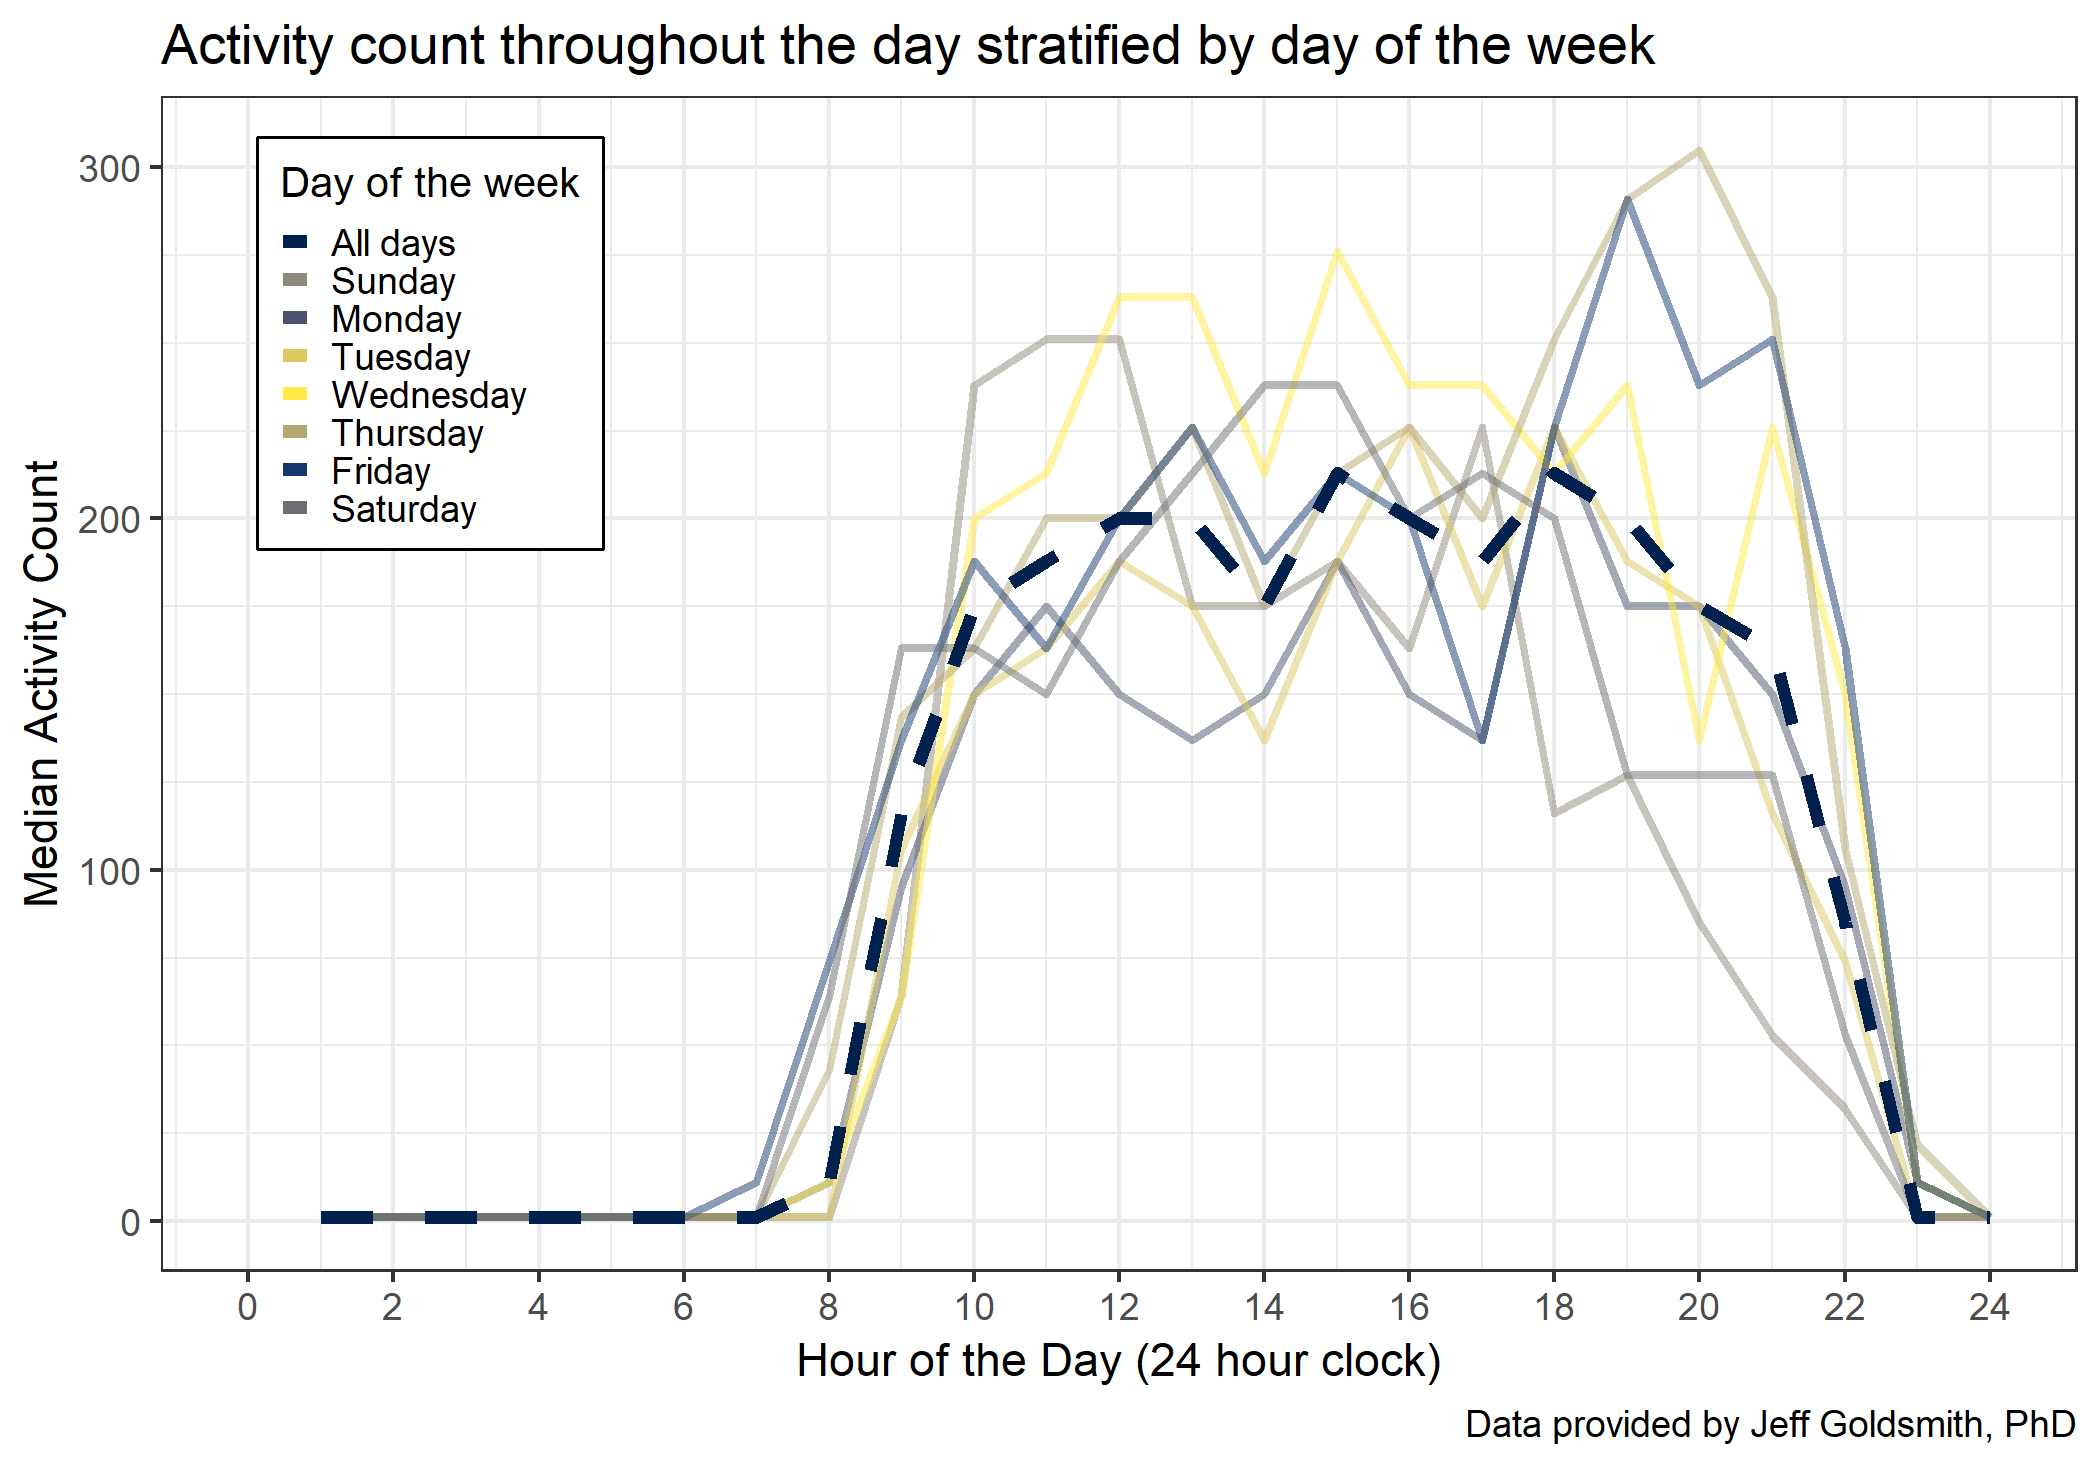
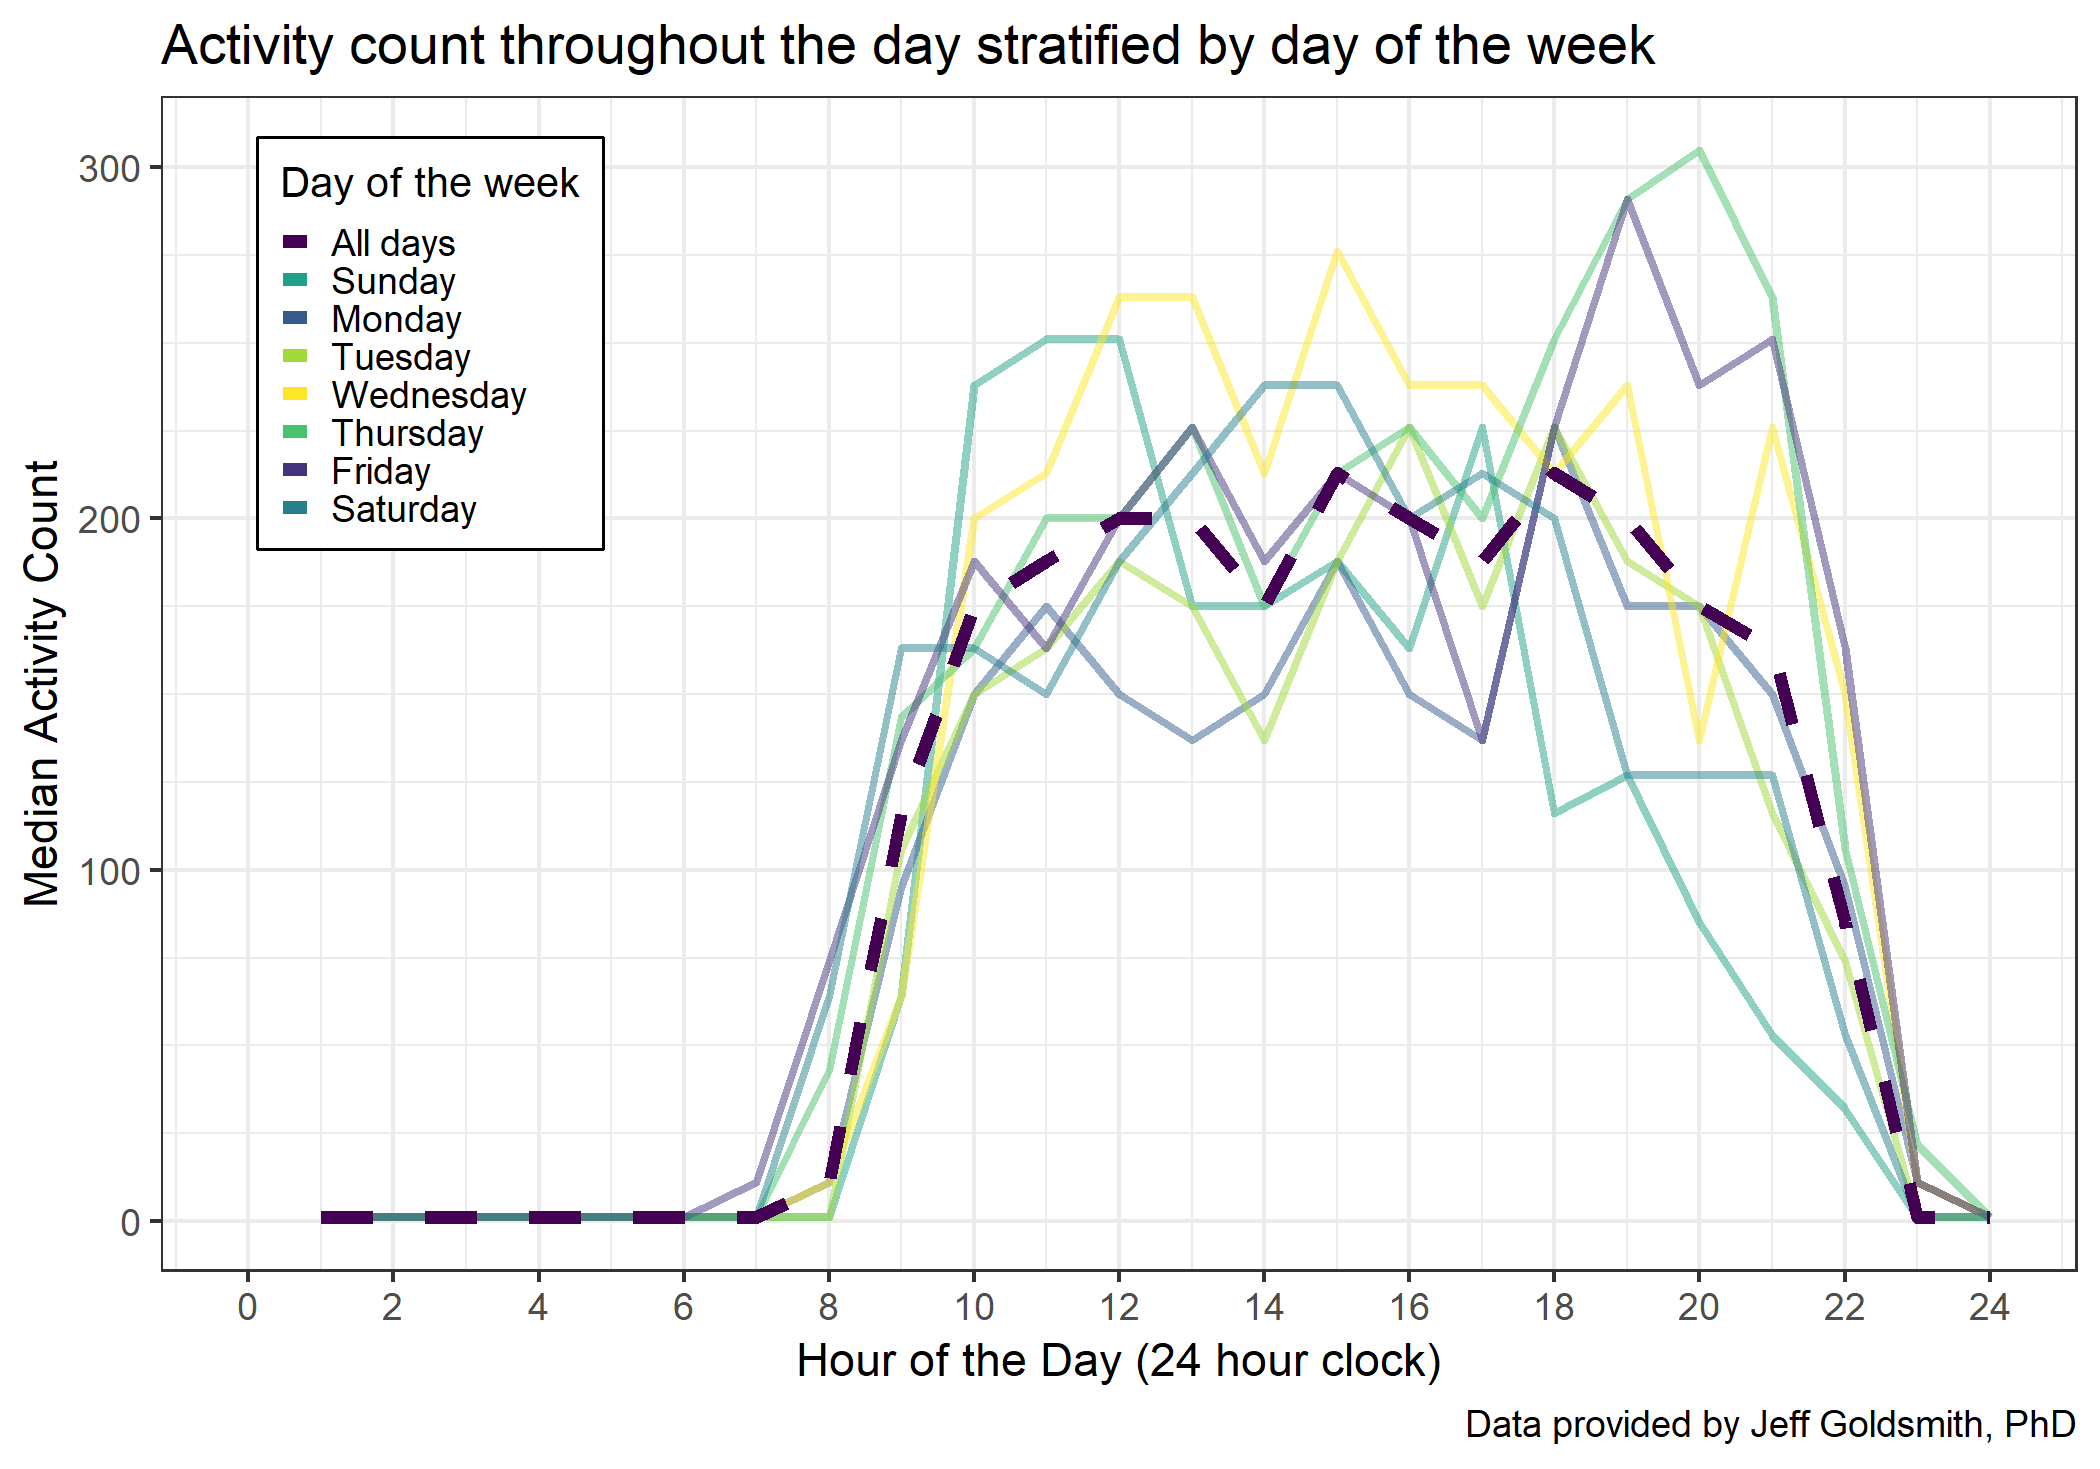
first draft of commentary on analyses

diff --git a/p8105_mtp_ntw2117.md b/p8105_mtp_ntw2117.md
@@ -37,9 +37,9 @@ accel_data <- accel_data %>%
   )
 ```
 
-The first steps in this analysis required importing and tidying the accelerametor data. After importing the data I noticed that each row represented one day during a week in the data set and that the variables activity\_1 through activity\_4 represented minutes of the day. I thus transformed the dataset from wide form to long form by creating a new variable called minute that recorded what minute of the day each row corresponds to. I then created a new variable called hour that recorded what hour of the day (on a 24 hour clock) each observation belonged to. Lastly, I created another week variable that collapsed the weeks into 9 week intervals. I also ordered the day variable so that the factor levels followed the actual order of the week.
+The first steps in this analysis required importing and tidying the accelerametor data. After importing the data I noticed that each row represented one day during a week in the data set and that the variables activity\_1 through activity\_1440 represented minutes of the day. I thus transformed the dataset from wide form to long form by creating a new variable called minute that recorded what minute of the day each row corresponds to. I then created a new variable called hour that recorded what hour of the day (on a 24 hour clock) each observation belonged to. Lastly, I created another week variable that collapsed the weeks into 9 week intervals. I also ordered the day variable so that the factor levels followed the actual order of the week.
 
-The cleaned accelerametor dataset contains 473760 observations/minutes and 6 variables. This represents 329 days or 19740 hours worth of data. The data is highly right skewed; as such, in addition to total activity, the median and/or geometric mean are used throughout this analysis in leu of the mean. The median and geometric average activity count throughout the entire observation period were 43 and 21.5 respectively. The modal activity count was 1, indicating no activity, with 204507 observed minutes.
+The cleaned accelerametor dataset contains 473760 observations/minutes and 6 variables. Variables include the week, day, hour, and minute. Ultimately, the data represents 329 days or 19740 hours worth of data. The data is highly right skewed due to the presence of outliers; as such, in addition to total activity, the median and/or geometric mean are used throughout this analysis in lieu of the mean. The median and geometric average activity count throughout the entire observation period were 43 and 21.5 respectively. The modal activity count was 1, indicating no activity, with 204507 observed minutes.
 
 ``` r
 day_median <- accel_data %>% 
@@ -64,20 +64,6 @@ bind_rows(day_median, day_geo_mean) %>%
 |:---------------|-------:|-------:|--------:|----------:|---------:|-------:|---------:|
 | Median         |    11.0|   32.00|    32.00|      53.00|     64.00|   64.00|     32.00|
 | Geometric mean |    17.1|   19.63|    19.93|      24.05|     25.79|   25.79|     19.84|
-
-``` r
-accel_data %>% # Lets think about this for a bit
-  group_by(day) %>% 
-  summarize(total_count = sum(activity_count)) %>% 
-  spread(key = day, value = total_count) %>% 
-  mutate(Measure = "Total Activity") %>% 
-  select(Measure, everything())
-```
-
-    ## # A tibble: 1 x 8
-    ##   Measure         Sunday Monday Tuesday Wednesday Thursday Friday Saturday
-    ##   <chr>            <dbl>  <dbl>   <dbl>     <dbl>    <dbl>  <dbl>    <dbl>
-    ## 1 Total Activity  1.69e7 1.49e7  1.44e7 15985405.   1.67e7 1.83e7   1.66e7
 
 ### Exploratory analyses
 
@@ -127,6 +113,8 @@ wrap_elements(density_full / (density_zoom_1 + density_zoom_2)) +
 
 <img src="p8105_mtp_ntw2117_files/figure-markdown_github/density plots of activity over the weeks-1.png" width="75%" style="display: block; margin: auto;" />
 
+As the first step of my analysis, I plotted the distribution of the log activity counts stratified by weekly intervals. This can be seen in the above figure. The density plot is characterized by two distinct peaks centered around zero and six. Interestingly, the peak centered around zero (indicating minimal activity) begins to decrease as time moves forward while the peak centered around six begins to increase. This is the first indication that the individuals activity may have increased over time.
+
 ``` r
 geo_agg_activity <- accel_data %>% 
   group_by(day) %>% 
@@ -154,7 +142,7 @@ total_agg_activity + geo_agg_activity
 
 <img src="p8105_mtp_ntw2117_files/figure-markdown_github/activity by day line plot-1.png" width="100%" style="display: block; margin: auto;" />
 
-There must be some days in which the individual was very active on Sundays and not very active on Mondays and Tuesdays that we see opposite plots. The geometric mean plot shows a weekly trend in activity while the total activity plot shows the days where the most and least activity occured throughout the whole observation period.
+I also explored the effect of weekday on activity. The figure above shows total activity and the geometric mean of activity across the days of the week aggregated across all weeks. The lowest total activity occurs on Tuesdays while the highest among occurs on Friday's. Interestingly, however, based on the geometric mean, we'd expect that the lowest activity during any week would occur on Sunday instead of Tuesday.
 
 ``` r
 med_actvty_all_days <- accel_data %>% 
@@ -172,7 +160,7 @@ accel_data %>%
   geom_line(data = med_actvty_all_days, lty = "dashed", size = 1.5) + 
   viridis::scale_color_viridis(name = "Day of the week", 
                                discrete = TRUE, 
-                               option = "cividis",
+                               option = "viridis",
                                breaks = c("All days", "Sunday", "Monday", "Tuesday",
                                           "Wednesday", "Thursday", "Friday", "Saturday")) + 
   scale_x_continuous(limits = c(0, 24), 
@@ -191,6 +179,8 @@ accel_data %>%
 ```
 
 <img src="p8105_mtp_ntw2117_files/figure-markdown_github/median activity by day and hour-1.png" width="70%" style="display: block; margin: auto;" />
+
+Furthermore, I investigated the effect of time of day on activity. The above figure shows trends in median hourly activity stratified by weekday as well as across all days. The individual appears to be relaively constant in activity during daytime hours. However, there are peaks in activity on Thursday and Friday between 6 p.m. and 9 p.m.
 
 ``` r
 total_actvty <- accel_data %>% 
@@ -220,3 +210,5 @@ wrap_elements(total_actvty / total_actvty_week_day) +
 ```
 
 <img src="p8105_mtp_ntw2117_files/figure-markdown_github/total activity across weeks-1.png" width="100%" style="display: block; margin: auto;" />
+
+Lastly, I analyzed the how total activity changed across the whole observation period. The above figure shows the trend in activity across all 47 weeks alone and stratified by day of the week. As time increases, it appears that total activity does increase as well. It also appears that total activity was more variable towards the beginning of the study and became more consistent towards the end.
